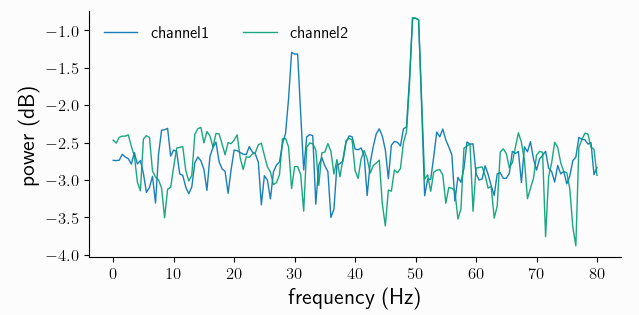
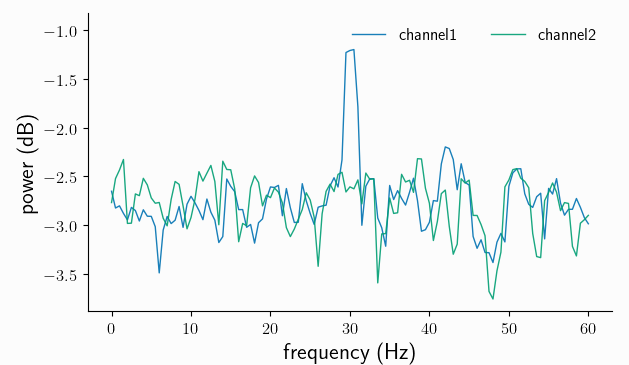
WIP: Quickstart - Preprocessing + plotting tweaks
- respect ('negative') log-axis for y-limit

On branch dev
Your branch is up to date with 'origin/dev'.

Changes to be committed:
	modified:   doc/source/quickstart/damped_harm.py
	modified:   doc/source/quickstart/damped_signals.png
	modified:   doc/source/quickstart/mtmfft_spec.png
	modified:   doc/source/quickstart/quickstart.rst
	modified:   doc/source/quickstart/wavelet_spec.png
	modified:   syncopy/plotting/_plotting.py
	modified:   syncopy/plotting/sp_plotting.py

Changed region(s): [[0.0302, 0.0571, 0.9666, 1.0], [0.7854, 0.0857, 0.9666, 0.1143], [0.6645, 0.8857, 0.6948, 0.9143]]

diff --git a/doc/source/quickstart/damped_harm.py b/doc/source/quickstart/damped_harm.py
@@ -14,19 +14,15 @@ harm30 = np.cos(2 * np.pi * 30 * tvec)
 # linear dampening down to 10% of the original amplitude
 dampening = np.linspace(1, 0.1, nSamples)
 signal = dampening * harm30
-# the 50Hz nuisance
-harm50 = np.cos(2 * np.pi * 50 * tvec)
 
 # collect trials
 trials = []
 for _ in range(nTrials):
 
+    # we start with the white noise
     trial = np.random.randn(nSamples, nChannels)
     # now add the damped harmonic on the 1st channel
     trial[:, 0] += signal
-    # finally we add the nuisance signal on both channels
-    trial[:, 0] += harm50
-    trial[:, 1] += harm50
 
     trials.append(trial)
 

diff --git a/syncopy/plotting/_plotting.py b/syncopy/plotting/_plotting.py
@@ -80,9 +80,13 @@ def plot_lines(ax, data_x, data_y, leg_fontsize=pltConfig['sLegendSize'], **pkwa
         ax.legend(ncol=2, loc='best', frameon=False,
                   fontsize=leg_fontsize)
         # make room for the legend
-        mn, mx = ax.get_ylim()        
-        ax.set_ylim((mn, 1.1 * mx))
-
+        mn, mx = ax.get_ylim()
+        # accomodate (negative) log values
+        if mx < 0:
+            # add a quarter magnitude
+            ax.set_ylim((mn, mx + 0.25))
+        else:
+            ax.set_ylim((mn, mx * 1.1))
 
 # -- image plots --
 

diff --git a/syncopy/plotting/sp_plotting.py b/syncopy/plotting/sp_plotting.py
@@ -58,6 +58,7 @@ def plot_AnalogData(data, shifted=True, **show_kwargs):
     _plotting.plot_lines(ax, data_x, data_y, label=labels)
     fig.tight_layout()
 
+
 def plot_SpectralData(data, **show_kwargs):
 
     """

diff --git a/doc/source/quickstart/quickstart.rst b/doc/source/quickstart/quickstart.rst
@@ -26,8 +26,10 @@ With this we have a dataset of type :class:`~syncopy.AnalogData`, which is inten
 
 .. image:: damped_signals.png
    :height: 260px
-  
-To recap: we have generated a synthetic dataset with a 50Hz nuisance signal and white noise on both channels, and ``channel1`` additionally carries the damped harmonic signal.
+
+By construction, we made the (white) noise of the same strength as the signal, hence by eye the oscillations present in channel1 are hardly visible.
+
+To recap: we have generated a synthetic dataset white noise on both channels, and channel1 additionally carries the damped harmonic signal.
 
 .. hint::
    Further details about artificial data generation can be found at the :ref:`synth_data` section.
@@ -79,17 +81,17 @@ Here we quickly want to showcase two important methods for (time-)frequency anal
 Multitapered Fourier Analysis
 ------------------------------
 
-`Multitaper methods <https://en.wikipedia.org/wiki/Multitaper>`_ allow for frequency smoothing of Fourier spectra. Syncopy implements the standard `Slepian/DPSS tapers <https://en.wikipedia.org/wiki/Window_function#DPSS_or_Slepian_window>`_ and provides a convenient parameter, the *taper smoothing frequency* ``tapsmofrq`` to control the amount of spectral smoothing in Hz. To perform a multi-tapered Fourier analysis with 3Hz spectral smoothing, we simply do:
+`Multitaper methods <https://en.wikipedia.org/wiki/Multitaper>`_ allow for frequency smoothing of Fourier spectra. Syncopy implements the standard `Slepian/DPSS tapers <https://en.wikipedia.org/wiki/Window_function#DPSS_or_Slepian_window>`_ and provides a convenient parameter, the *taper smoothing frequency* ``tapsmofrq`` to control the amount of one-sided spectral smoothing in Hz. To perform a multi-tapered Fourier analysis with 2Hz spectral smoothing, we simply do:
 
 .. code-block::
 
-   fft_spectra = spy.freqanalysis(data, method='mtmfft', foilim=[0, 80], tapsmofrq=2)
+   fft_spectra = spy.freqanalysis(data, method='mtmfft', foilim=[0, 60], tapsmofrq=1)
 
-The parameter ``foilim`` controls the *frequencies of interest  limits*, so in this case we are interested in the range 0-80Hz. Starting the computation interactively will show additional information::
+The parameter ``foilim`` controls the *frequencies of interest  limits*, so in this case we are interested in the range 0-60Hz. Starting the computation interactively will show additional information::
 
-  Syncopy <validate_taper> INFO: Using 3 taper(s) for multi-tapering
+  Syncopy <validate_taper> INFO: Using 7 taper(s) for multi-tapering
 
-informing us, that for this dataset a spectral smoothing of 2Hz required 3 Slepian tapers.
+informing us, that for this dataset a total spectral smoothing of 2Hz required 7 Slepian tapers.
 
 The resulting new dataset ``fft_spectra`` is of type :class:`syncopy.SpectralData`, which is the general datatype storing the results of a time-frequency analysis.
 
@@ -102,8 +104,8 @@ To quickly have something for the eye we can plot the power spectrum of a single
 
 .. image:: mtmfft_spec.png
    :height: 260px
-
-We clearly see a smoothed spectral peak at 30Hz in channel1, and the larger 50Hz peaks plus the flat white noise floor in both channels. Comparing with the signals plotted in the time domain above, we see the power of the frequency representation of an oscillatory signal.
+	    
+We clearly see a smoothed spectral peak at 30Hz, channel 2 just contains the flat white noise floor. Comparing with the signals plotted in the time domain above, we see the power of the frequency representation of an oscillatory signal.
 
 The related short time Fourier transform can be computed via ``method='mtmconvol'``, see :func:`~syncopy.freqanalysis` for more details and examples.
 
@@ -116,7 +118,7 @@ Wavelet Analysis
 In Syncopy we can compute the Wavelet transform by calling :func:`~syncopy.freqanalysis` with the ``method='wavelet'`` argument::
 
   # define frequencies to scan
-  fois = np.arange(10, 80, step=2) # 2Hz stepping
+  fois = np.arange(10, 60, step=2) # 2Hz stepping
   wav_spectra = spy.freqanalysis(data,
                                  method='wavelet',
 				 foi=fois,
@@ -138,16 +140,21 @@ To quickly inspect the results for each channel we can use::
 
 .. image:: wavelet_spec.png
    :height: 250px
-
-Again, we see the 30Hz signal in the 1st channel, and channel 2 only carries the 50Hz nuisance signal. However, in contrast to the ``method=mtmfft`` call,  now we also get information along the time axis: the dampening of the 30Hz harmonic over time in channel1 is clearly visible.
+	    
+Again, we see a strong 30Hz signal in the 1st channel, and channel 2 is devoid of any rhythms. However, in contrast to the ``method='mtmfft'`` call, now we also get information along the time axis. The dampening of the 30Hz harmonic over time in channel 1 is clearly visible.
 
 An improved method, the superlet transform, providing super-resolution time-frequency representations can be computed via ``method='superlet'``, see :func:`~syncopy.freqanalysis` for more details.
-
 
 Preprocessing
 =============
 
-Removing this dominating 50Hz signal::
+Raw data often contains unwanted signal components: offsets, trends or even oscillatory nuisance signals. Let's add all of these to our synthetic dataset::
+
+  lin_trend = spy.synth_data.linear_trend(y_max=3,
+                                          nTrials=50,
+					  samplerate=500,
+					  nSamples=1000,
+					  nChannels=2)
 
   data_pp = spy.preprocessing(data, filter_type='lp', freq=40, order=12)
   spec_pp = spy.freqanalysis(data, foilim=[0, 80], tapsmofrq=2, keeptrials=False)
